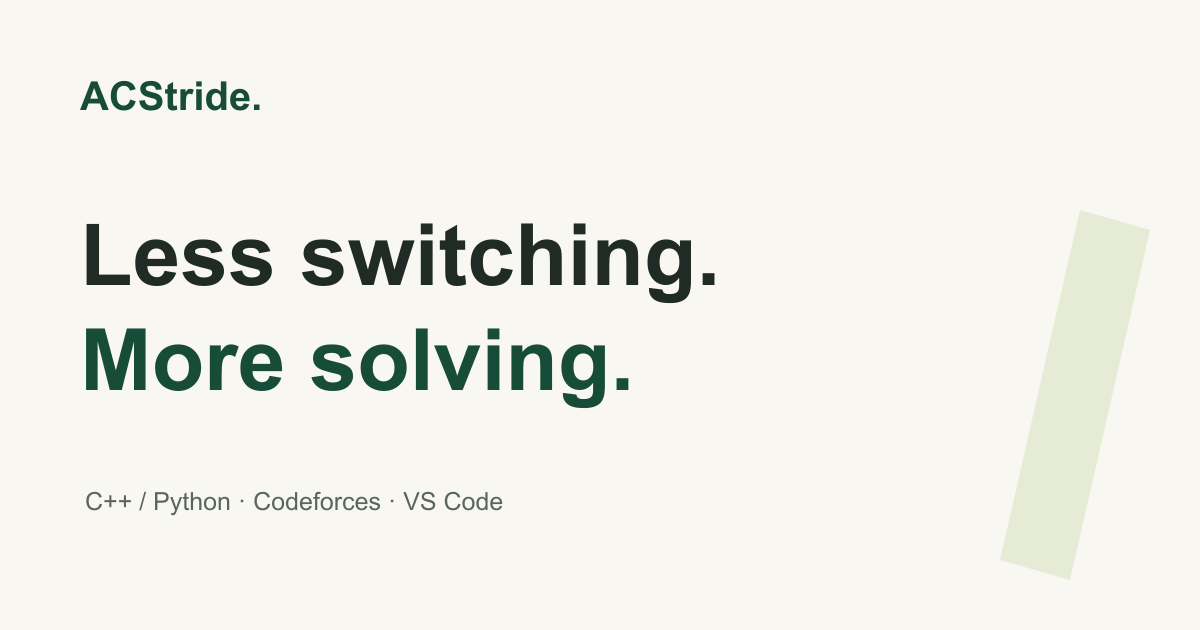
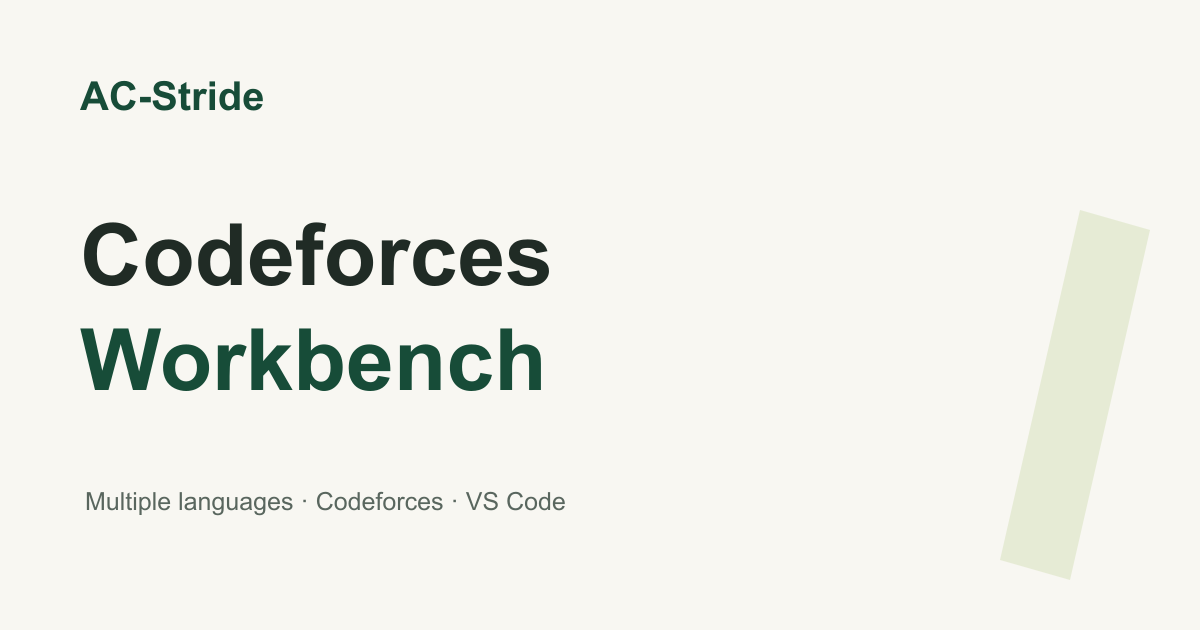
fix: distinguish Codeforces Workbench product from AC-Stride brand (#4)
* Point extension links to codeforces-workbench

* fix: distinguish Codeforces Workbench from AC-Stride brand

diff --git a/src/components/editor-preview.tsx b/src/components/editor-preview.tsx
@@ -84,7 +84,7 @@ export function EditorPreview() {
             <i />
           </div>
           <span>
-            AC-Sride <span className="dim">/</span> {t("contest")}
+            Codeforces Workbench <span className="dim">/</span> {t("contest")}
           </span>
           <span className="window-chip">VS CODE</span>
         </div>
@@ -263,7 +263,7 @@ export function EditorPreview() {
           </div>
         </div>
         <div className="editor-status">
-          <span>✓ AC-Sride</span>
+          <span>✓ Codeforces Workbench</span>
           <span>
             {language === "cpp" ? "C++20" : "Python 3"} <span>UTF-8</span>
           </span>

diff --git a/src/app/[locale]/layout.tsx b/src/app/[locale]/layout.tsx
@@ -23,14 +23,14 @@ export async function generateMetadata({
       ? { robots: { index: false, follow: false } }
       : {}),
     metadataBase: new URL(siteUrl),
-    title: { default: m.meta.title, template: "%s | AC-Sride" },
+    title: { default: m.meta.title, template: "%s | Codeforces Workbench" },
     description: m.meta.description,
     icons: { icon: "/icon.svg" },
     openGraph: {
       title: m.meta.title,
       description: m.meta.description,
       type: "website",
-      siteName: "AC-Sride",
+      siteName: "Codeforces Workbench",
       images: [{ url: "/og.png", width: 1200, height: 630 }],
     },
     twitter: {

diff --git a/src/components/chrome.tsx b/src/components/chrome.tsx
@@ -18,7 +18,7 @@ export function Brand() {
         </svg>
       </span>
       <span>
-        AC-Sride<span className="brand-dot">.</span>
+        AC-Stride<span className="brand-dot">.</span>
       </span>
     </span>
   );
@@ -35,7 +35,7 @@ export function Header({ locale }: { locale: Locale }) {
       </a>
       <header className="header">
         <div className="shell header-inner">
-          <Link href={`/${locale}`} aria-label="AC-Sride">
+          <Link href={`/${locale}`} aria-label="AC-Stride">
             <Brand />
           </Link>
           <nav

diff --git a/src/components/pages.tsx b/src/components/pages.tsx
@@ -228,7 +228,7 @@ export function DownloadPage({ locale }: { locale: Locale }) {
             <Download size={33} />
           </div>
           <h2>
-            AC-Sride <span>for VS Code</span>
+            Codeforces Workbench <span>for VS Code</span>
           </h2>
           <a className={buttonClass()} href={extensionRepo}>
             {t.source}

diff --git a/README.md b/README.md
@@ -1,6 +1,6 @@
-# AC-Sride Web
+# Codeforces Workbench website · AC-Stride
 
-The product website for AC-Sride, a Codeforces-focused VS Code extension currently named CFIDE internally.
+The official website for Codeforces Workbench, a VS Code extension by AC-Stride.
 
 ## Stack
 
@@ -42,7 +42,7 @@ The owner has confirmed that the current project is personal and non-commercial.
 
 ## Release limitations
 
-[Extension repository](https://github.com/acstride-labs/codeforces-workbench). No Marketplace listing or public release asset was available when this site was authored; links lead to build instructions instead of invented downloads. Update that information when verified packages are published. Codeforces login and one-click submission are described as experimental, with site-verification limits and a manual fallback. Optional AI translation and request caching reflect the current source preview; no paid AC-Sride plan is advertised.
+[Extension repository](https://github.com/acstride-labs/acstride-vscode-extension). No Marketplace listing or public release asset was available when this site was authored; links lead to build instructions instead of invented downloads. Update that information when verified packages are published. Codeforces login and one-click submission are described as experimental, with site-verification limits and a manual fallback. Optional AI translation and request caching reflect the current source preview; no paid AC-Stride plan is advertised.
 
 No passwords, cookies, payment return URLs, domain purchase details, or tokens belong in this repository. Website original code/content are currently all rights reserved; no open-source license was selected. Third-party licenses are unchanged.
 
